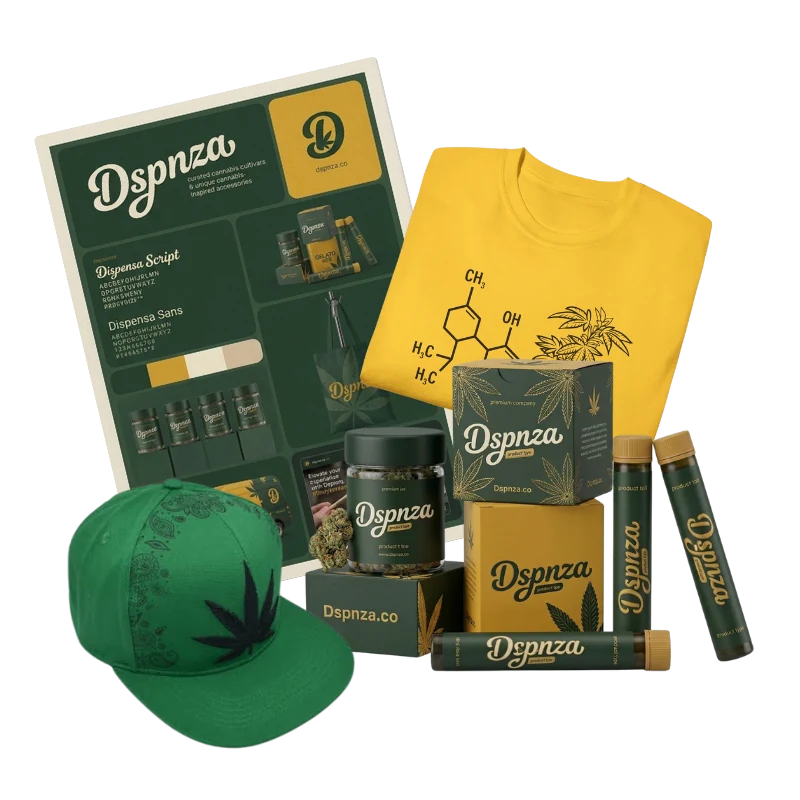
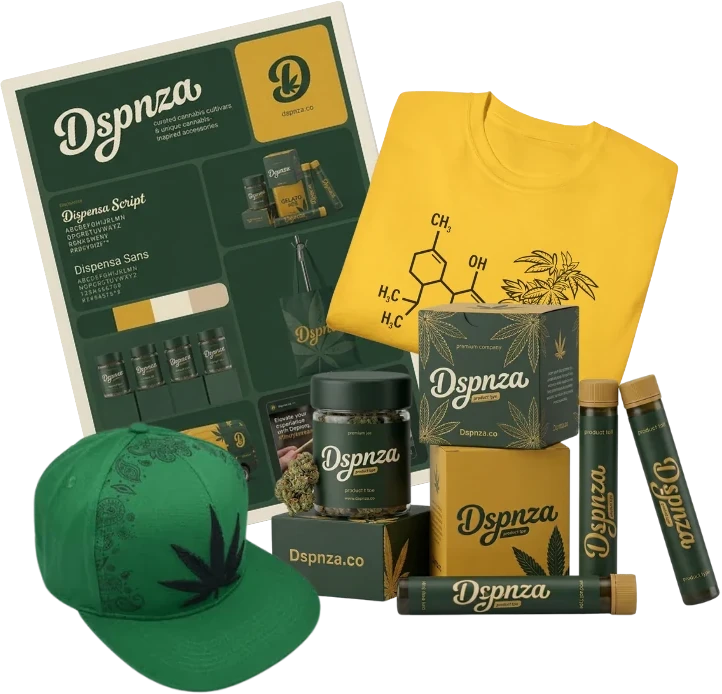
Branding block: drop the outline and pin the artwork to the copy's top
Owner: "ensure that the top edge of the artwork aligns with top edge
of the text, please remove container outlines here as well."

Three steps, because removing the plate alone would not have aligned
anything.

1. The plate goes via --flush, which also makes the box match the
   copy column's height.

2. object-fit:contain CENTRES what it fits, so an image whose aspect
   does not match its box floats with equal slack above and below --
   the top edge would still have sat low. object-position:top pins it
   to the top of the box, which is what was actually asked for.

3. THE ASSET IS TRIMMED FIRST, and this is the part that would have
   silently failed otherwise: the file carried 56px of transparency
   above the artwork, so "the top of the image" and "the top of the
   artwork" were not the same thing, and object-position:top would
   have dutifully aligned that empty band with the heading. Trimmed
   to its ink, 800x800 -> 722x694.

Verified at 1440/1120/1024: outline gone, artwork top exactly level
with the copy top (0px delta at every split width), and the trimmed
1.04:1 aspect now fills the height as well (303 = 303).

STILL CARRYING PLATES, deliberately untouched because they were not
in scope: ADVERTISEMENT DESIGN, CONSULTING, REPORTS.

Claude-Session: https://claude.ai/code/session_01RJVjhdmcTVTKTedpLB8qeA

diff --git a/_design/dispenza-structural.css b/_design/dispenza-structural.css
@@ -2174,3 +2174,21 @@
   .hw-svc__row--wide .hw-media--flush{
     margin-left:calc(-1 * clamp(0px, (100vw - var(--ds-container-max)) / 2 - 18px, 118px))}
 }
+
+
+/* TOP-ALIGNED ARTWORK (owner: "ensure that the top edge of the artwork aligns with top edge
+   of the text, please remove container outlines here as well").
+
+   Two things, because removing the plate alone would not have done it.
+
+   The plate is gone via --flush, which also makes the box match the copy column's height.
+   But object-fit:contain CENTRES what it fits, so an image whose aspect does not match its
+   box floats in the middle with equal slack above and below -- the top edge would still sit
+   low. object-position:top pins it to the top of the box instead, which is what the owner
+   is actually asking for.
+
+   The asset is trimmed to its ink first (800x800 -> its bounding box), because otherwise
+   "the top of the artwork" and "the top of the image" are not the same thing: the file
+   carried 56px of transparency above the artwork, and object-position:top would have
+   dutifully aligned that empty band with the heading. */
+.hw-media--top img{object-position:top}

diff --git a/how-it-works.html b/how-it-works.html
@@ -22,7 +22,7 @@
 <link rel="stylesheet" href="_design/dispenza-fonts.css?v=4f436d86">
 <link rel="stylesheet" href="_design/dispenza-tokens.css?v=bf07bcdb">
 <link rel="stylesheet" href="_design/dispenza-chrome.css?v=01811159">
-<link rel="stylesheet" href="_design/dispenza-structural.css?v=f4c8e60f">
+<link rel="stylesheet" href="_design/dispenza-structural.css?v=8135c3c2">
 
 </head>
 <body class="site-body">
@@ -662,9 +662,9 @@
           </div>
         </div>
         <div class="col col--media" style="order:0">
-          <figure class="hw-media hw-media--plate" data-media-in>
+          <figure class="hw-media hw-media--flush hw-media--top" data-media-in>
             <img src="assets/in-pages/dspnza-brand-kit.webp"
-                   alt="Dspnza brand kit: brand guidelines sheet, printed tee, cap, product jar, boxes and pre-roll tubes" width="800" height="800" decoding="async" loading="lazy">
+                   alt="Dspnza brand kit: brand guidelines sheet, printed tee, cap, product jar, boxes and pre-roll tubes" width="722" height="694" decoding="async" loading="lazy">
           </figure>
         </div>
       </div>

diff --git a/ads-design.html b/ads-design.html
@@ -22,7 +22,7 @@
 <link rel="stylesheet" href="_design/dispenza-fonts.css?v=4f436d86">
 <link rel="stylesheet" href="_design/dispenza-tokens.css?v=bf07bcdb">
 <link rel="stylesheet" href="_design/dispenza-chrome.css?v=01811159">
-<link rel="stylesheet" href="_design/dispenza-structural.css?v=f4c8e60f">
+<link rel="stylesheet" href="_design/dispenza-structural.css?v=8135c3c2">
 
 </head>
 <body class="site-body">

diff --git a/ads1.html b/ads1.html
@@ -22,7 +22,7 @@
 <link rel="stylesheet" href="_design/dispenza-fonts.css?v=4f436d86">
 <link rel="stylesheet" href="_design/dispenza-tokens.css?v=bf07bcdb">
 <link rel="stylesheet" href="_design/dispenza-chrome.css?v=01811159">
-<link rel="stylesheet" href="_design/dispenza-structural.css?v=f4c8e60f">
+<link rel="stylesheet" href="_design/dispenza-structural.css?v=8135c3c2">
 
 </head>
 <body class="site-body">

diff --git a/branding-graphic-design.html b/branding-graphic-design.html
@@ -22,7 +22,7 @@
 <link rel="stylesheet" href="_design/dispenza-fonts.css?v=4f436d86">
 <link rel="stylesheet" href="_design/dispenza-tokens.css?v=bf07bcdb">
 <link rel="stylesheet" href="_design/dispenza-chrome.css?v=01811159">
-<link rel="stylesheet" href="_design/dispenza-structural.css?v=f4c8e60f">
+<link rel="stylesheet" href="_design/dispenza-structural.css?v=8135c3c2">
 
 </head>
 <body class="site-body">

diff --git a/case-studies.html b/case-studies.html
@@ -22,7 +22,7 @@
 <link rel="stylesheet" href="_design/dispenza-fonts.css?v=4f436d86">
 <link rel="stylesheet" href="_design/dispenza-tokens.css?v=bf07bcdb">
 <link rel="stylesheet" href="_design/dispenza-chrome.css?v=01811159">
-<link rel="stylesheet" href="_design/dispenza-structural.css?v=f4c8e60f">
+<link rel="stylesheet" href="_design/dispenza-structural.css?v=8135c3c2">
 
 </head>
 <body class="site-body">

diff --git a/consulting.html b/consulting.html
@@ -22,7 +22,7 @@
 <link rel="stylesheet" href="_design/dispenza-fonts.css?v=4f436d86">
 <link rel="stylesheet" href="_design/dispenza-tokens.css?v=bf07bcdb">
 <link rel="stylesheet" href="_design/dispenza-chrome.css?v=01811159">
-<link rel="stylesheet" href="_design/dispenza-structural.css?v=f4c8e60f">
+<link rel="stylesheet" href="_design/dispenza-structural.css?v=8135c3c2">
 
 </head>
 <body class="site-body">

diff --git a/contact.html b/contact.html
@@ -22,7 +22,7 @@
 <link rel="stylesheet" href="_design/dispenza-fonts.css?v=4f436d86">
 <link rel="stylesheet" href="_design/dispenza-tokens.css?v=bf07bcdb">
 <link rel="stylesheet" href="_design/dispenza-chrome.css?v=01811159">
-<link rel="stylesheet" href="_design/dispenza-structural.css?v=f4c8e60f">
+<link rel="stylesheet" href="_design/dispenza-structural.css?v=8135c3c2">
 
 </head>
 <body class="site-body">

diff --git a/conversion-rate-optimization.html b/conversion-rate-optimization.html
@@ -22,7 +22,7 @@
 <link rel="stylesheet" href="_design/dispenza-fonts.css?v=4f436d86">
 <link rel="stylesheet" href="_design/dispenza-tokens.css?v=bf07bcdb">
 <link rel="stylesheet" href="_design/dispenza-chrome.css?v=01811159">
-<link rel="stylesheet" href="_design/dispenza-structural.css?v=f4c8e60f">
+<link rel="stylesheet" href="_design/dispenza-structural.css?v=8135c3c2">
 
 </head>
 <body class="site-body">

diff --git a/dispensary-marketing-and-advertising.html b/dispensary-marketing-and-advertising.html
@@ -22,7 +22,7 @@
 <link rel="stylesheet" href="_design/dispenza-fonts.css?v=4f436d86">
 <link rel="stylesheet" href="_design/dispenza-tokens.css?v=bf07bcdb">
 <link rel="stylesheet" href="_design/dispenza-chrome.css?v=01811159">
-<link rel="stylesheet" href="_design/dispenza-structural.css?v=f4c8e60f">
+<link rel="stylesheet" href="_design/dispenza-structural.css?v=8135c3c2">
 
 </head>
 <body class="site-body">

diff --git a/firehouse.html b/firehouse.html
@@ -22,7 +22,7 @@
 <link rel="stylesheet" href="_design/dispenza-fonts.css?v=4f436d86">
 <link rel="stylesheet" href="_design/dispenza-tokens.css?v=bf07bcdb">
 <link rel="stylesheet" href="_design/dispenza-chrome.css?v=01811159">
-<link rel="stylesheet" href="_design/dispenza-structural.css?v=f4c8e60f">
+<link rel="stylesheet" href="_design/dispenza-structural.css?v=8135c3c2">
 
 </head>
 <body class="site-body">

diff --git a/flwrco.html b/flwrco.html
@@ -22,7 +22,7 @@
 <link rel="stylesheet" href="_design/dispenza-fonts.css?v=4f436d86">
 <link rel="stylesheet" href="_design/dispenza-tokens.css?v=bf07bcdb">
 <link rel="stylesheet" href="_design/dispenza-chrome.css?v=01811159">
-<link rel="stylesheet" href="_design/dispenza-structural.css?v=f4c8e60f">
+<link rel="stylesheet" href="_design/dispenza-structural.css?v=8135c3c2">
 
 </head>
 <body class="site-body">
